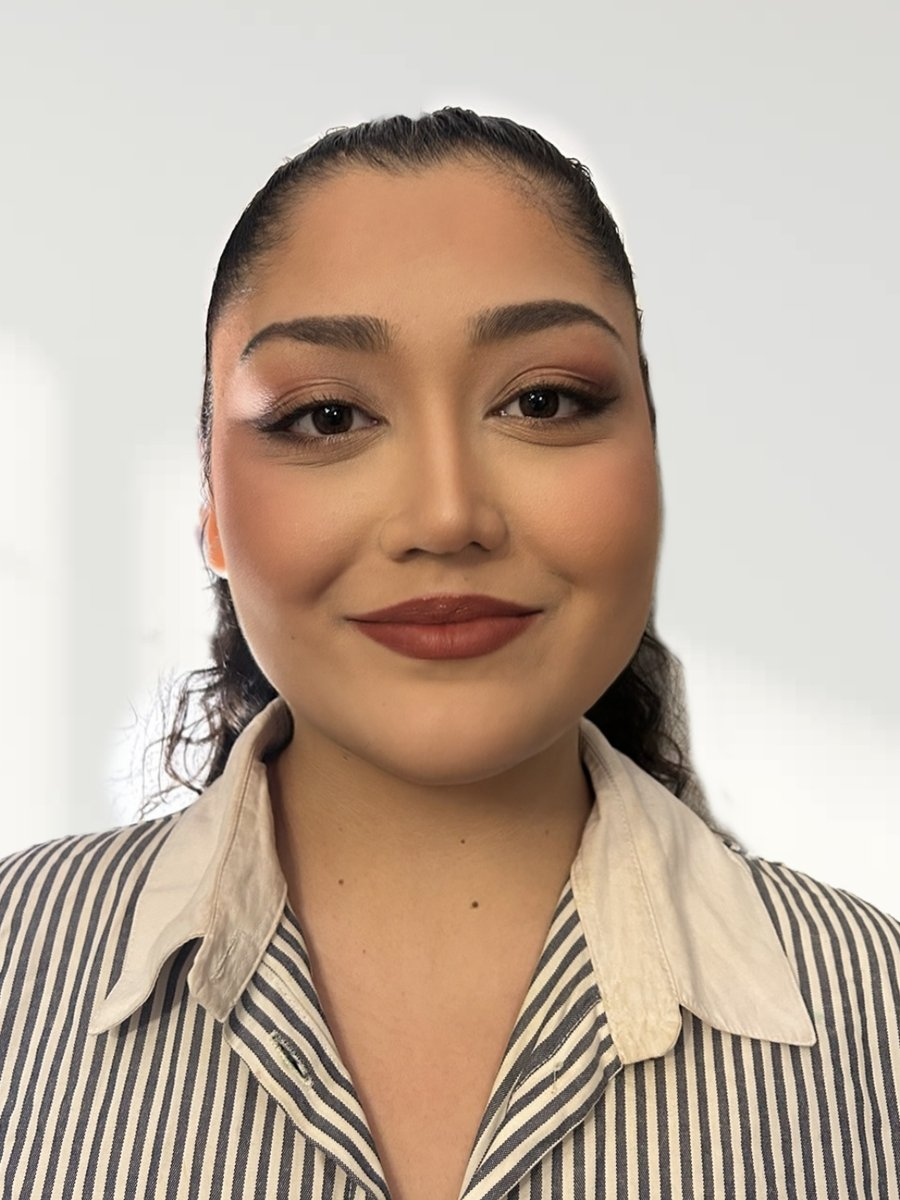
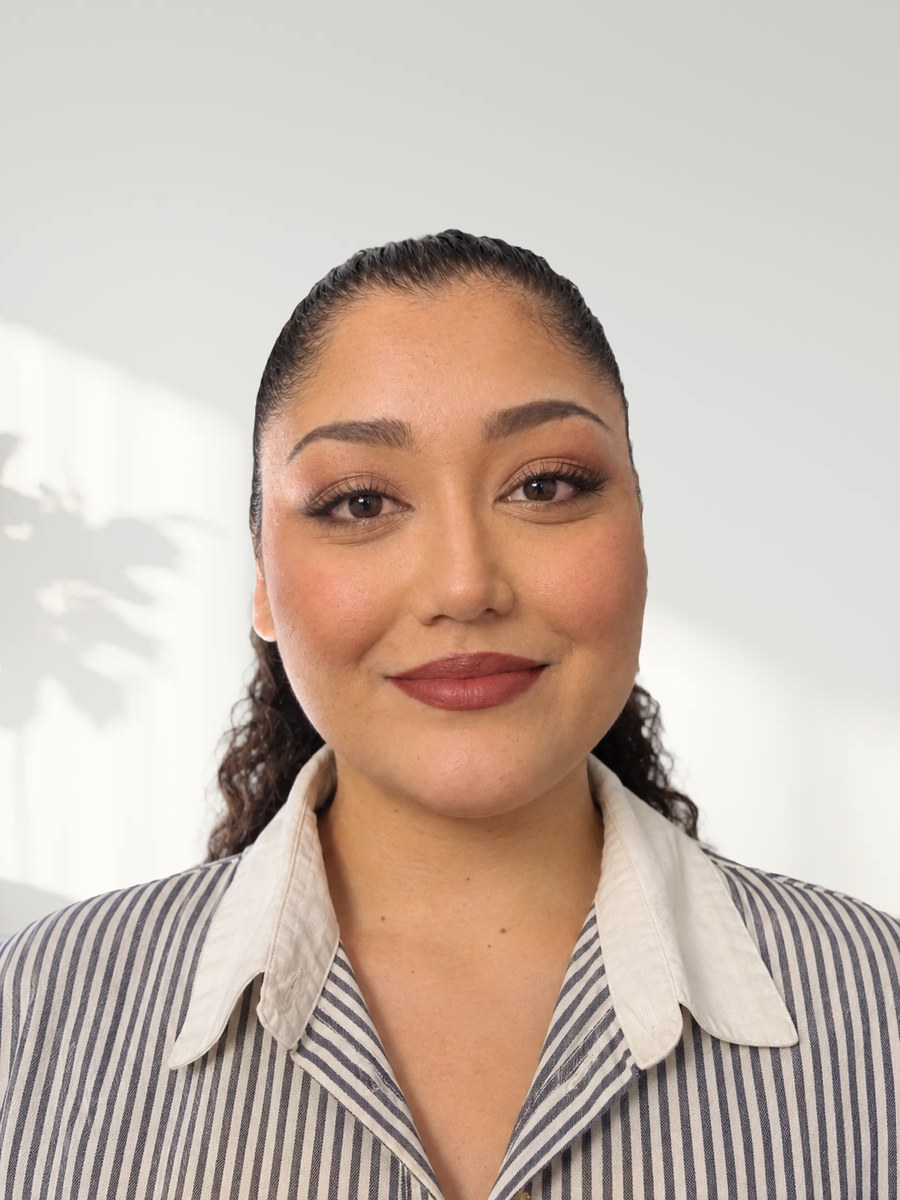
Add files via upload

diff --git a/equipe-ela.html b/equipe-ela.html
@@ -77,12 +77,12 @@
         <div>
           <h1>Ela Öztürk</h1>
           <p class="p-role">Coordinatrice des programmes d'insertion</p>
-          <p class="p-lead">Co-fondatrice d'Insertio, Ela coordonne les programmes Tremplin, Élan et Passerelles. Entre recherche et terrain, elle construit des accompagnements au plus près de la réalité de chaque jeune.</p>
+          <p class="p-lead">Chez Insertio, Ela coordonne les programmes Tremplin, Élan et Passerelles. Entre recherche et terrain, elle construit des accompagnements au plus près de la réalité de chaque jeune.</p>
           <ul class="tags"><li>Insertion socioprofessionnelle</li><li>Jeunes issus de la migration</li><li>Recherche en sciences sociales</li><li>Inclusion</li></ul>
           <div class="p-actions"><a href="contact.html#rdv" class="btn-primary" data-rdv>Prendre rendez-vous</a><a href="#contact" class="btn-ghost-light">Contacter Ela</a></div>
         </div>
       </div>
-      <dl class="p-stats"><div><dt>Co-fondatrice</dt><dd>d'Insertio</dd></div><div><dt>36 personnalités</dt><dd>de Suisse romande, Voices of equALLity</dd></div><div><dt>Thônex</dt><dd>conseillère municipale suppléante</dd></div></dl>
+      <dl class="p-stats"><div><dt>3 langues</dt><dd>français, turc, anglais</dd></div><div><dt>36 personnalités</dt><dd>de Suisse romande, Voices of equALLity</dd></div><div><dt>Thônex</dt><dd>conseillère municipale suppléante</dd></div></dl>
     </div>
   </section>
 
@@ -105,7 +105,7 @@
     <div class="wrap">
       <div class="p-head fx"><h2>Parcours</h2><p>Des expériences d'insertion sur le terrain, et une connaissance concrète du monde du travail genevois.</p></div>
       <div class="tl"><span class="tl-fill" aria-hidden="true"></span><ol class="tl-items">
-        <li class="fx"><span class="tl-dot" aria-hidden="true"></span><div class="tl-card"><span class="tl-when">Depuis 2026</span><h3>Co-fondatrice et coordinatrice des programmes</h3><p class="tl-org">Insertio, Genève</p><p>Elle a lancé l'association avec l'équipe, conçu ses programmes et ses outils, et coordonne leur mise en œuvre.</p></div></li>
+        <li class="fx"><span class="tl-dot" aria-hidden="true"></span><div class="tl-card"><span class="tl-when">Depuis 2026</span><h3>Coordinatrice des programmes d'insertion</h3><p class="tl-org">Insertio, Genève</p><p>Elle a conçu les programmes et les outils de l'association, et coordonne leur mise en œuvre.</p></div></li>
         <li class="fx"><span class="tl-dot" aria-hidden="true"></span><div class="tl-card"><span class="tl-when">2026</span><h3>Coordinatrice de projet, insertion professionnelle et inclusion</h3><p class="tl-org">Yojoa (Youth Job Accelerator), avec l’Hospice général</p><p>Elle a accompagné des jeunes vers l'emploi, en groupe comme en individuel.</p><details class="more"><summary><span class="plus">Voir le détail</span><span class="less">Masquer</span></summary><div class="more-body"><ul class="dots"><li>Encadrement d'une équipe de 20 jeunes en parcours d'insertion</li><li>Animation d'ateliers professionnels</li><li>Co-production du podcast « Ce que mon CV ne dit pas », sur les compétences invisibles des jeunes</li><li>Rédaction de guides d'animation</li><li>Accueil et écoute active de jeunes en situation de vulnérabilité</li></ul></div></details></div></li>
         <li class="fx"><span class="tl-dot" aria-hidden="true"></span><div class="tl-card"><span class="tl-when">2019 – 2025</span><h3>Expériences administratives</h3><p class="tl-org">Entreprises genevoises</p><p>En entreprise, elle a appris ce que les employeurs attendent au quotidien. Elle s'en sert pour préparer les jeunes.</p><details class="more"><summary><span class="plus">Voir le détail</span><span class="less">Masquer</span></summary><div class="more-body"><ul class="dots"><li>Assistante junior chargée d'affaires, G.B.F. Sàrl</li><li>Employée de bureau, Meganet Ventil Sàrl</li><li>Stagiaire, étude d'avocats Barth &amp; Patek</li></ul></div></details></div></li>
       </ol></div>

diff --git a/equipe-aylin.html b/equipe-aylin.html
@@ -13,7 +13,7 @@
 <meta property="og:url" content="https://insertio.ch/equipe-aylin.html">
 <meta property="og:title" content="Aylin, Responsable du pôle coordination | Insertio">
 <meta property="og:description" content="Découvre le parcours d&#x27;Aylin, responsable du pôle coordination chez Insertio, association d&#x27;insertion professionnelle des jeunes à Genève.">
-<meta property="og:image" content="https://insertio.ch/team-aylin.jpg">
+<meta property="og:image" content="https://insertio.ch/profil-aylin.jpg">
 <meta property="og:locale" content="fr_CH">
 <script>document.documentElement.classList.add('js');</script>
 <link rel="preconnect" href="https://fonts.googleapis.com">
@@ -24,7 +24,7 @@
 <link rel="stylesheet" href="programme-style.css?v=3">
 <link rel="stylesheet" href="equipe-style.css?v=5">
 <script type="application/ld+json">
-{"@context": "https://schema.org", "@type": "Person", "name": "Aylin", "jobTitle": "Responsable du pôle coordination", "image": "https://insertio.ch/team-aylin.jpg", "worksFor": {"@type": "NGO", "name": "Insertio", "url": "https://insertio.ch/"}}
+{"@context": "https://schema.org", "@type": "Person", "name": "Aylin", "jobTitle": "Responsable du pôle coordination", "image": "https://insertio.ch/profil-aylin.jpg", "worksFor": {"@type": "NGO", "name": "Insertio", "url": "https://insertio.ch/"}}
 </script>
 </head>
 <body>
@@ -73,7 +73,7 @@
     <div class="wrap">
       <nav class="breadcrumb" aria-label="Fil d'Ariane"><a href="index.html">Accueil</a><span aria-hidden="true">›</span><a href="index.html#equipe">Équipe</a><span aria-hidden="true">›</span><span aria-current="page">Aylin</span></nav>
       <div class="p-hero-grid">
-        <div class="p-photo"><img src="team-aylin.jpg" alt="Portrait d'Aylin"></div>
+        <div class="p-photo"><img src="profil-aylin.jpg" alt="Portrait d'Aylin"></div>
         <div>
           <h1>Aylin</h1>
           <p class="p-role">Responsable du pôle coordination</p>
